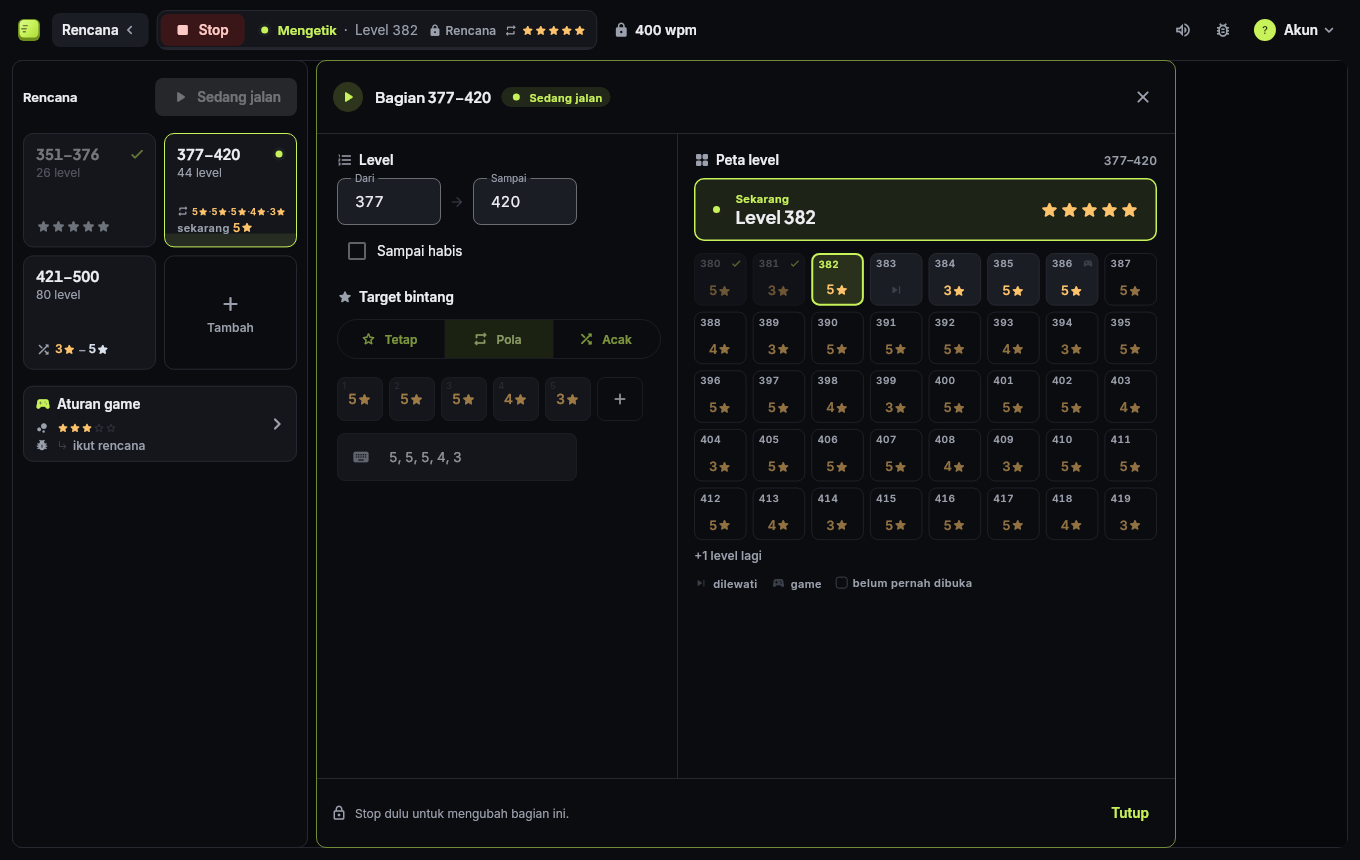
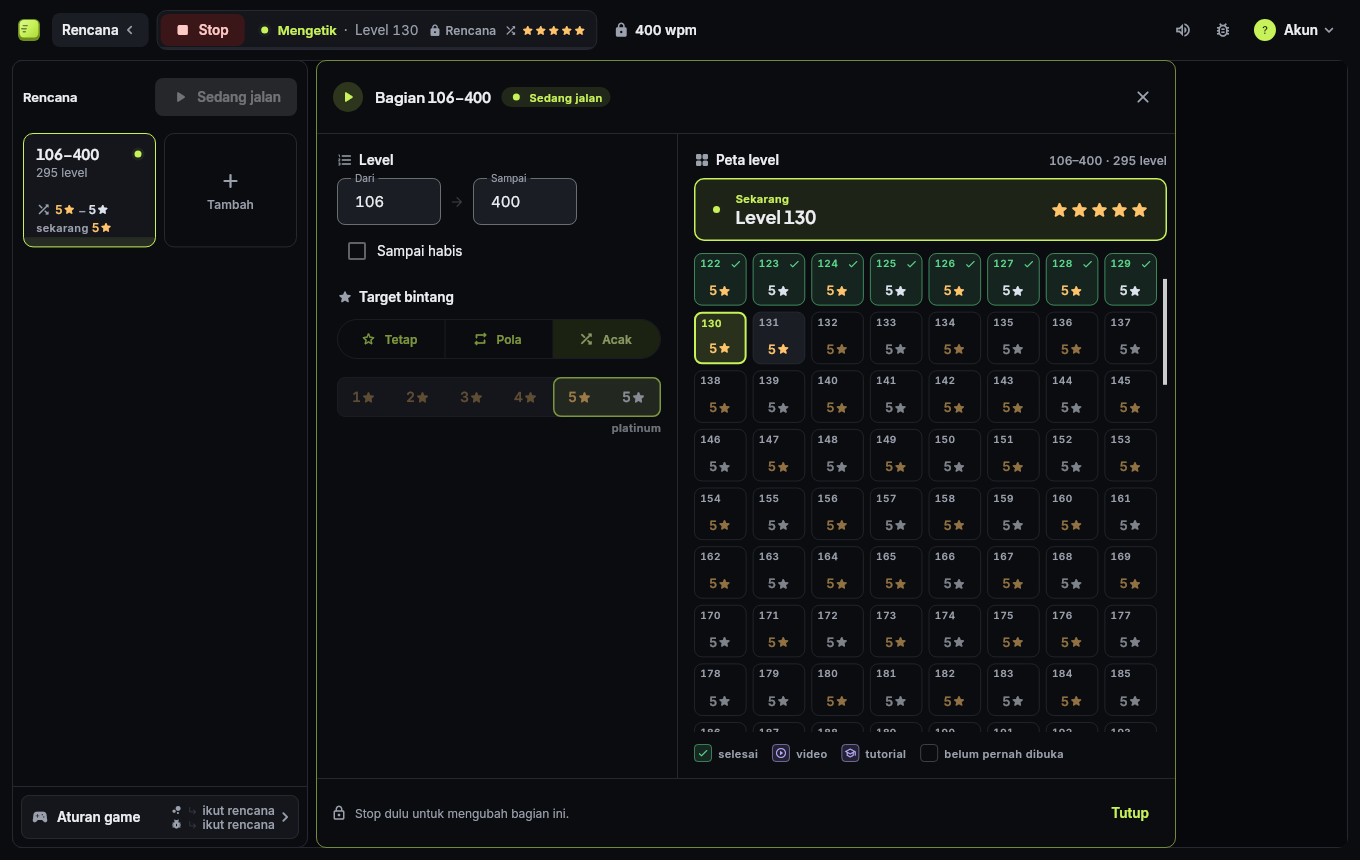
v4.1.2: peta level bisa digulir untuk seluruh rentang bagian (kotak dibangun malas), ikut bergulir ke level yang sedang jalan

diff --git a/ui/lib/src/ui/plan_editor.dart b/ui/lib/src/ui/plan_editor.dart
@@ -438,11 +438,12 @@ class _SegmentFormState extends State<_SegmentForm> {
     final to = _to;
     final peta = from == null || from < 1 || from > AppStore.lastLevel
         ? null
-        : _LevelMap(
+        : (bool penuh) => _LevelMap(
             from: from,
             to: to == null || (to != 0 && to < from) ? from : to,
             rule: _rule,
             current: aktif && s.levelNum >= from ? s.levelNum : 0,
+            expand: penuh,
           );
 
     final judul = e.isNew
@@ -460,7 +461,7 @@ class _SegmentFormState extends State<_SegmentForm> {
         if (!lebar) {
           return ListView(padding: const EdgeInsets.fromLTRB(20, 18, 20, 24), children: [
             form,
-            if (peta != null) ...[const SizedBox(height: 22), peta],
+            if (peta != null) ...[const SizedBox(height: 22), peta(false)],
           ]);
         }
         return Row(crossAxisAlignment: CrossAxisAlignment.stretch, children: [
@@ -470,9 +471,9 @@ class _SegmentFormState extends State<_SegmentForm> {
           ),
           VerticalDivider(width: 1, color: c.outlineVariant),
           Expanded(
-            child: ListView(
-              padding: const EdgeInsets.fromLTRB(16, 18, 18, 24),
-              children: [?peta],
+            child: Padding(
+              padding: const EdgeInsets.fromLTRB(16, 18, 8, 16),
+              child: peta?.call(true) ?? const SizedBox.shrink(),
             ),
           ),
         ]);
@@ -534,14 +535,16 @@ const _premium = Color(0xFFFF8FB1);
       _ => (icon: Icons.skip_next_rounded, color: c.secondary, name: 'dilewati'),
     };
 
-/// Kotak per level dgn targetnya, mulai dari level awal bagian. Saat
-/// bagian ini jalan, level sekarang jadi yang utama.
-class _LevelMap extends StatelessWidget {
+/// Kotak per level dgn targetnya, seluruh rentang bagian bisa digulir
+/// (kotak dibangun malas, hanya yang terlihat). Saat bagian ini jalan,
+/// level sekarang jadi yang utama & peta ikut bergulir ke sana.
+class _LevelMap extends StatefulWidget {
   const _LevelMap({
     required this.from,
     required this.to,
     required this.rule,
     required this.current,
+    this.expand = false,
   });
   final int from;
 
@@ -552,57 +555,139 @@ class _LevelMap extends StatelessWidget {
   /// level yang sedang dikerjakan (0 = bagian ini tidak sedang jalan)
   final int current;
 
+  /// true = mengisi tinggi yang tersedia (kolom kanan lembar lebar)
+  final bool expand;
+
+  @override
+  State<_LevelMap> createState() => _LevelMapState();
+}
+
+class _LevelMapState extends State<_LevelMap> {
   static const _kotak = 50.0;
   static const _jarak = 6.0;
+  final _ctl = ScrollController();
+
+  /// level sekarang yang terakhir digulir ke (0 = belum pernah)
+  int _diGulir = 0;
+
+  @override
+  void dispose() {
+    _ctl.dispose();
+    super.dispose();
+  }
+
+  /// Gulir supaya baris level sekarang terlihat (satu baris sebelumnya
+  /// ikut tampil: level yang baru selesai).
+  void _gulirKe(int kolom, double baris) {
+    final cur = widget.current;
+    if (cur <= 0 || cur == _diGulir || !_ctl.hasClients) return;
+    final awal = _diGulir == 0;
+    _diGulir = cur;
+    final row = (cur - widget.from) ~/ kolom;
+    final pos = _ctl.position;
+    final atas = (math.max(0, row - 1) * baris).clamp(0.0, pos.maxScrollExtent);
+    // sudah terlihat: jangan geser (biar user bisa melihat-lihat)
+    final rowTop = row * baris;
+    if (!awal && rowTop >= pos.pixels && rowTop + baris <= pos.pixels + pos.viewportDimension) return;
+    if (awal) {
+      _ctl.jumpTo(atas);
+    } else {
+      _ctl.animateTo(atas, duration: Motion.drawer, curve: Motion.out);
+    }
+  }
 
   @override
   Widget build(BuildContext context) {
     final s = StoreScope.of(context);
     final t = Theme.of(context).textTheme;
     final c = Theme.of(context).colorScheme;
+    final from = widget.from, to = widget.to, current = widget.current;
     final akhir = to == 0 ? AppStore.lastLevel : to;
     final jalan = current >= from && current <= akhir;
-    return LayoutBuilder(builder: (_, box) {
-      final kolom = math.max(4, ((box.maxWidth + _jarak) / (_kotak + _jarak)).floor());
-      // kotak melebar sedikit supaya baris pas selebar kolom
-      final ukuran = ((box.maxWidth - (kolom - 1) * _jarak) / kolom).clamp(_kotak, 64.0);
-      final baris = jalan ? 5 : 6;
-      final muat = kolom * baris;
-      // jalan: mulai sedikit sebelum level sekarang
-      final mulai = jalan ? math.max(from, current - 2) : from;
-      final sel = levelMap(
-        from: from,
-        to: to,
-        lastLevel: AppStore.lastLevel,
-        rule: rule,
-        key: 'p$from',
-        acct: s.seqAcct,
-        kinds: s.catalog,
-        seq: s.seq,
-        games: s.gameRules,
-        done: s.done,
-        start: mulai,
-        count: muat,
-      );
-      final sisa = akhir - (sel.isEmpty ? mulai - 1 : sel.last.level);
-      final kini = jalan ? sel.where((x) => x.level == current).firstOrNull : null;
-      final cur = s.curTarget;
-      final kodeKini = cur != null && cur['level'] == current
-          ? (cur['code'] as num).toInt()
-          : kini?.code;
-      // keterangan: hanya yang muncul di peta
-      final jenisLewat = <String>{
-        for (final x in sel)
-          if (x.skip) _lookOf(x.kind, c).name,
-      };
-      final adaSelesai = sel.any((x) => x.done);
-      final adaGame = sel.any((x) => x.game != null || gameKinds.contains(x.kind));
-      final adaBaru = sel.any((x) => !x.known && !x.done);
+    // seluruh rentang (hitungan ringan; kotaknya dibangun malas)
+    final sel = levelMap(
+      from: from,
+      to: to,
+      lastLevel: AppStore.lastLevel,
+      rule: widget.rule,
+      key: 'p$from',
+      acct: s.seqAcct,
+      kinds: s.catalog,
+      seq: s.seq,
+      games: s.gameRules,
+      done: s.done,
+      start: from,
+      count: akhir - from + 1,
+    );
+    final kini = jalan ? sel.where((x) => x.level == current).firstOrNull : null;
+    final cur = s.curTarget;
+    final kodeKini = cur != null && cur['level'] == current
+        ? (cur['code'] as num).toInt()
+        : kini?.code;
+    // keterangan: hanya yang muncul di peta
+    final jenisLewat = <String>{
+      for (final x in sel)
+        if (x.skip) _lookOf(x.kind, c).name,
+    };
+    final adaSelesai = sel.any((x) => x.done);
+    final adaGame = sel.any((x) => x.game != null || gameKinds.contains(x.kind));
+    final adaBaru = sel.any((x) => !x.known && !x.done);
 
-      return Column(crossAxisAlignment: CrossAxisAlignment.start, children: [
+    final grid = LayoutBuilder(builder: (_, box) {
+      // ruang kanan utk batang gulir
+      final lebar = box.maxWidth - 10;
+      final kolom = math.max(4, ((lebar + _jarak) / (_kotak + _jarak)).floor());
+      final ukuran = (lebar - (kolom - 1) * _jarak) / kolom;
+      if (jalan) {
+        WidgetsBinding.instance.addPostFrameCallback((_) {
+          if (mounted) _gulirKe(kolom, ukuran + _jarak);
+        });
+      }
+      return Scrollbar(
+        controller: _ctl,
+        thumbVisibility: sel.length > kolom * 6,
+        child: GridView.builder(
+          controller: _ctl,
+          padding: const EdgeInsets.only(right: 10, bottom: 4),
+          gridDelegate: SliverGridDelegateWithFixedCrossAxisCount(
+            crossAxisCount: kolom,
+            mainAxisSpacing: _jarak,
+            crossAxisSpacing: _jarak,
+          ),
+          itemCount: sel.length,
+          itemBuilder: (_, i) {
+            final x = sel[i];
+            return _LevelSquare(
+              cell: x,
+              size: ukuran,
+              // level sekarang: target yang benar2 dipakai bot
+              code: jalan && x.level == current ? kodeKini : x.code,
+              now: jalan && x.level == current,
+              first: x.level == from && !jalan,
+            );
+          },
+        ),
+      );
+    });
+
+    final legend = Wrap(spacing: 14, runSpacing: 8, children: [
+      if (adaSelesai) const _Legend(icon: Icons.check_rounded, color: _hijau, text: 'selesai'),
+      for (final k in const ['video', 'tutorial', 'test', 'hold', 'game', 'free', 'premium'])
+        if (jenisLewat.contains(_lookOf(k, c).name))
+          _Legend(icon: _lookOf(k, c).icon, color: _lookOf(k, c).color, text: _lookOf(k, c).name),
+      if (adaGame) _Legend(icon: Icons.sports_esports_rounded, color: c.tertiary, text: 'game balon/monster'),
+      if (adaBaru) const _Legend(hollow: true, text: 'belum pernah dibuka'),
+    ]);
+
+    return Column(
+      crossAxisAlignment: CrossAxisAlignment.start,
+      mainAxisSize: widget.expand ? MainAxisSize.max : MainAxisSize.min,
+      children: [
         _Label('Peta level',
             icon: Icons.grid_view_rounded,
-            trailing: Text(to == 0 ? '$from sampai habis' : (from == akhir ? '$from' : '$from–$akhir'),
+            trailing: Text(
+                '${to == 0 ? '$from sampai habis' : (from == akhir ? '$from' : '$from–$akhir')}'
+                ' · ${sel.length} level',
                 style: t.labelMedium!.copyWith(
                     color: c.onSurfaceVariant,
                     fontFeatures: const [FontFeature.tabularFigures()]))),
@@ -610,33 +695,11 @@ class _LevelMap extends StatelessWidget {
           _NowCard(level: current, code: kodeKini, cell: kini),
           const SizedBox(height: 12),
         ],
-        Wrap(spacing: _jarak, runSpacing: _jarak, children: [
-          for (final x in sel)
-            _LevelSquare(
-              cell: x,
-              size: ukuran,
-              // level sekarang: target yang benar2 dipakai bot
-              code: jalan && x.level == current ? kodeKini : x.code,
-              now: jalan && x.level == current,
-              first: x.level == from && !jalan,
-            ),
-        ]),
-        if (sisa > 0) ...[
-          const SizedBox(height: 8),
-          Text('+$sisa level lagi',
-              style: t.labelMedium!.copyWith(color: c.onSurfaceVariant)),
-        ],
-        const SizedBox(height: 14),
-        Wrap(spacing: 14, runSpacing: 8, children: [
-          if (adaSelesai) const _Legend(icon: Icons.check_rounded, color: _hijau, text: 'selesai'),
-          for (final k in const ['video', 'tutorial', 'test', 'hold', 'game', 'free', 'premium'])
-            if (jenisLewat.contains(_lookOf(k, c).name))
-              _Legend(icon: _lookOf(k, c).icon, color: _lookOf(k, c).color, text: _lookOf(k, c).name),
-          if (adaGame) _Legend(icon: Icons.sports_esports_rounded, color: c.tertiary, text: 'game balon/monster'),
-          if (adaBaru) const _Legend(hollow: true, text: 'belum pernah dibuka'),
-        ]),
-      ]);
-    });
+        if (widget.expand) Expanded(child: grid) else SizedBox(height: 380, child: grid),
+        const SizedBox(height: 12),
+        legend,
+      ],
+    );
   }
 }
 

diff --git a/ui/test/ui_shell_test.dart b/ui/test/ui_shell_test.dart
@@ -115,7 +115,7 @@ void main() {
     await t.tap(find.text('51–200'));
     await _settle(t);
     expect(find.text('51'), findsWidgets);
-    expect(find.textContaining('level lagi'), findsOneWidget);
+    expect(find.textContaining('· 150 level'), findsOneWidget);
     expect(find.text('Belum disimpan'), findsNothing);
     await t.tap(find.text('Acak'));
     await _settle(t);

diff --git a/ui/lib/src/version.dart b/ui/lib/src/version.dart
@@ -1,2 +1,2 @@
 // Versi app v4 (naikkan -devN tiap build uji; lihat AGENTS.md).
-const appVersion = '4.1.1';
+const appVersion = '4.1.2';

diff --git a/docs/architecture/v4-native-plan.md b/docs/architecture/v4-native-plan.md
@@ -620,6 +620,13 @@ the 4.1.1-dev1..dev4 test builds. Published without ADMIN_KEY: the owner's Cloud
 KV directly (`exe:4.1.1:0` chunk + `release` record, old `exe:4.0.9:0` deleted), same data /api/publish
 writes; /api/download redirects to the GitHub asset anyway.
 
+### 4.1.2 (2026-11-28)
+Level map scrolls over the whole part range (lazy `GridView.builder`, only visible squares are built; 600+
+levels stay light) instead of a 6-row window starting 2 levels before the current one. Header shows the
+level count. While the part runs it opens scrolled so the current level's row sits one row below the top,
+and only scrolls again when the current level leaves the view. Released mainly to test the update flow
+from 4.1.1 (the app updater treats 4.1.1-devN as equal to 4.1.1, so dev installs need 4.1.2).
+
 ## Owner test checklist (Windows, build 4.0.0-dev24 from the CI artifact)
 Close any running 3.5.x first (same data folder). Everything happens inside the app window.
 1. **N1 page**: app opens, edclub shows with no white flash, Google login works inside the app,
